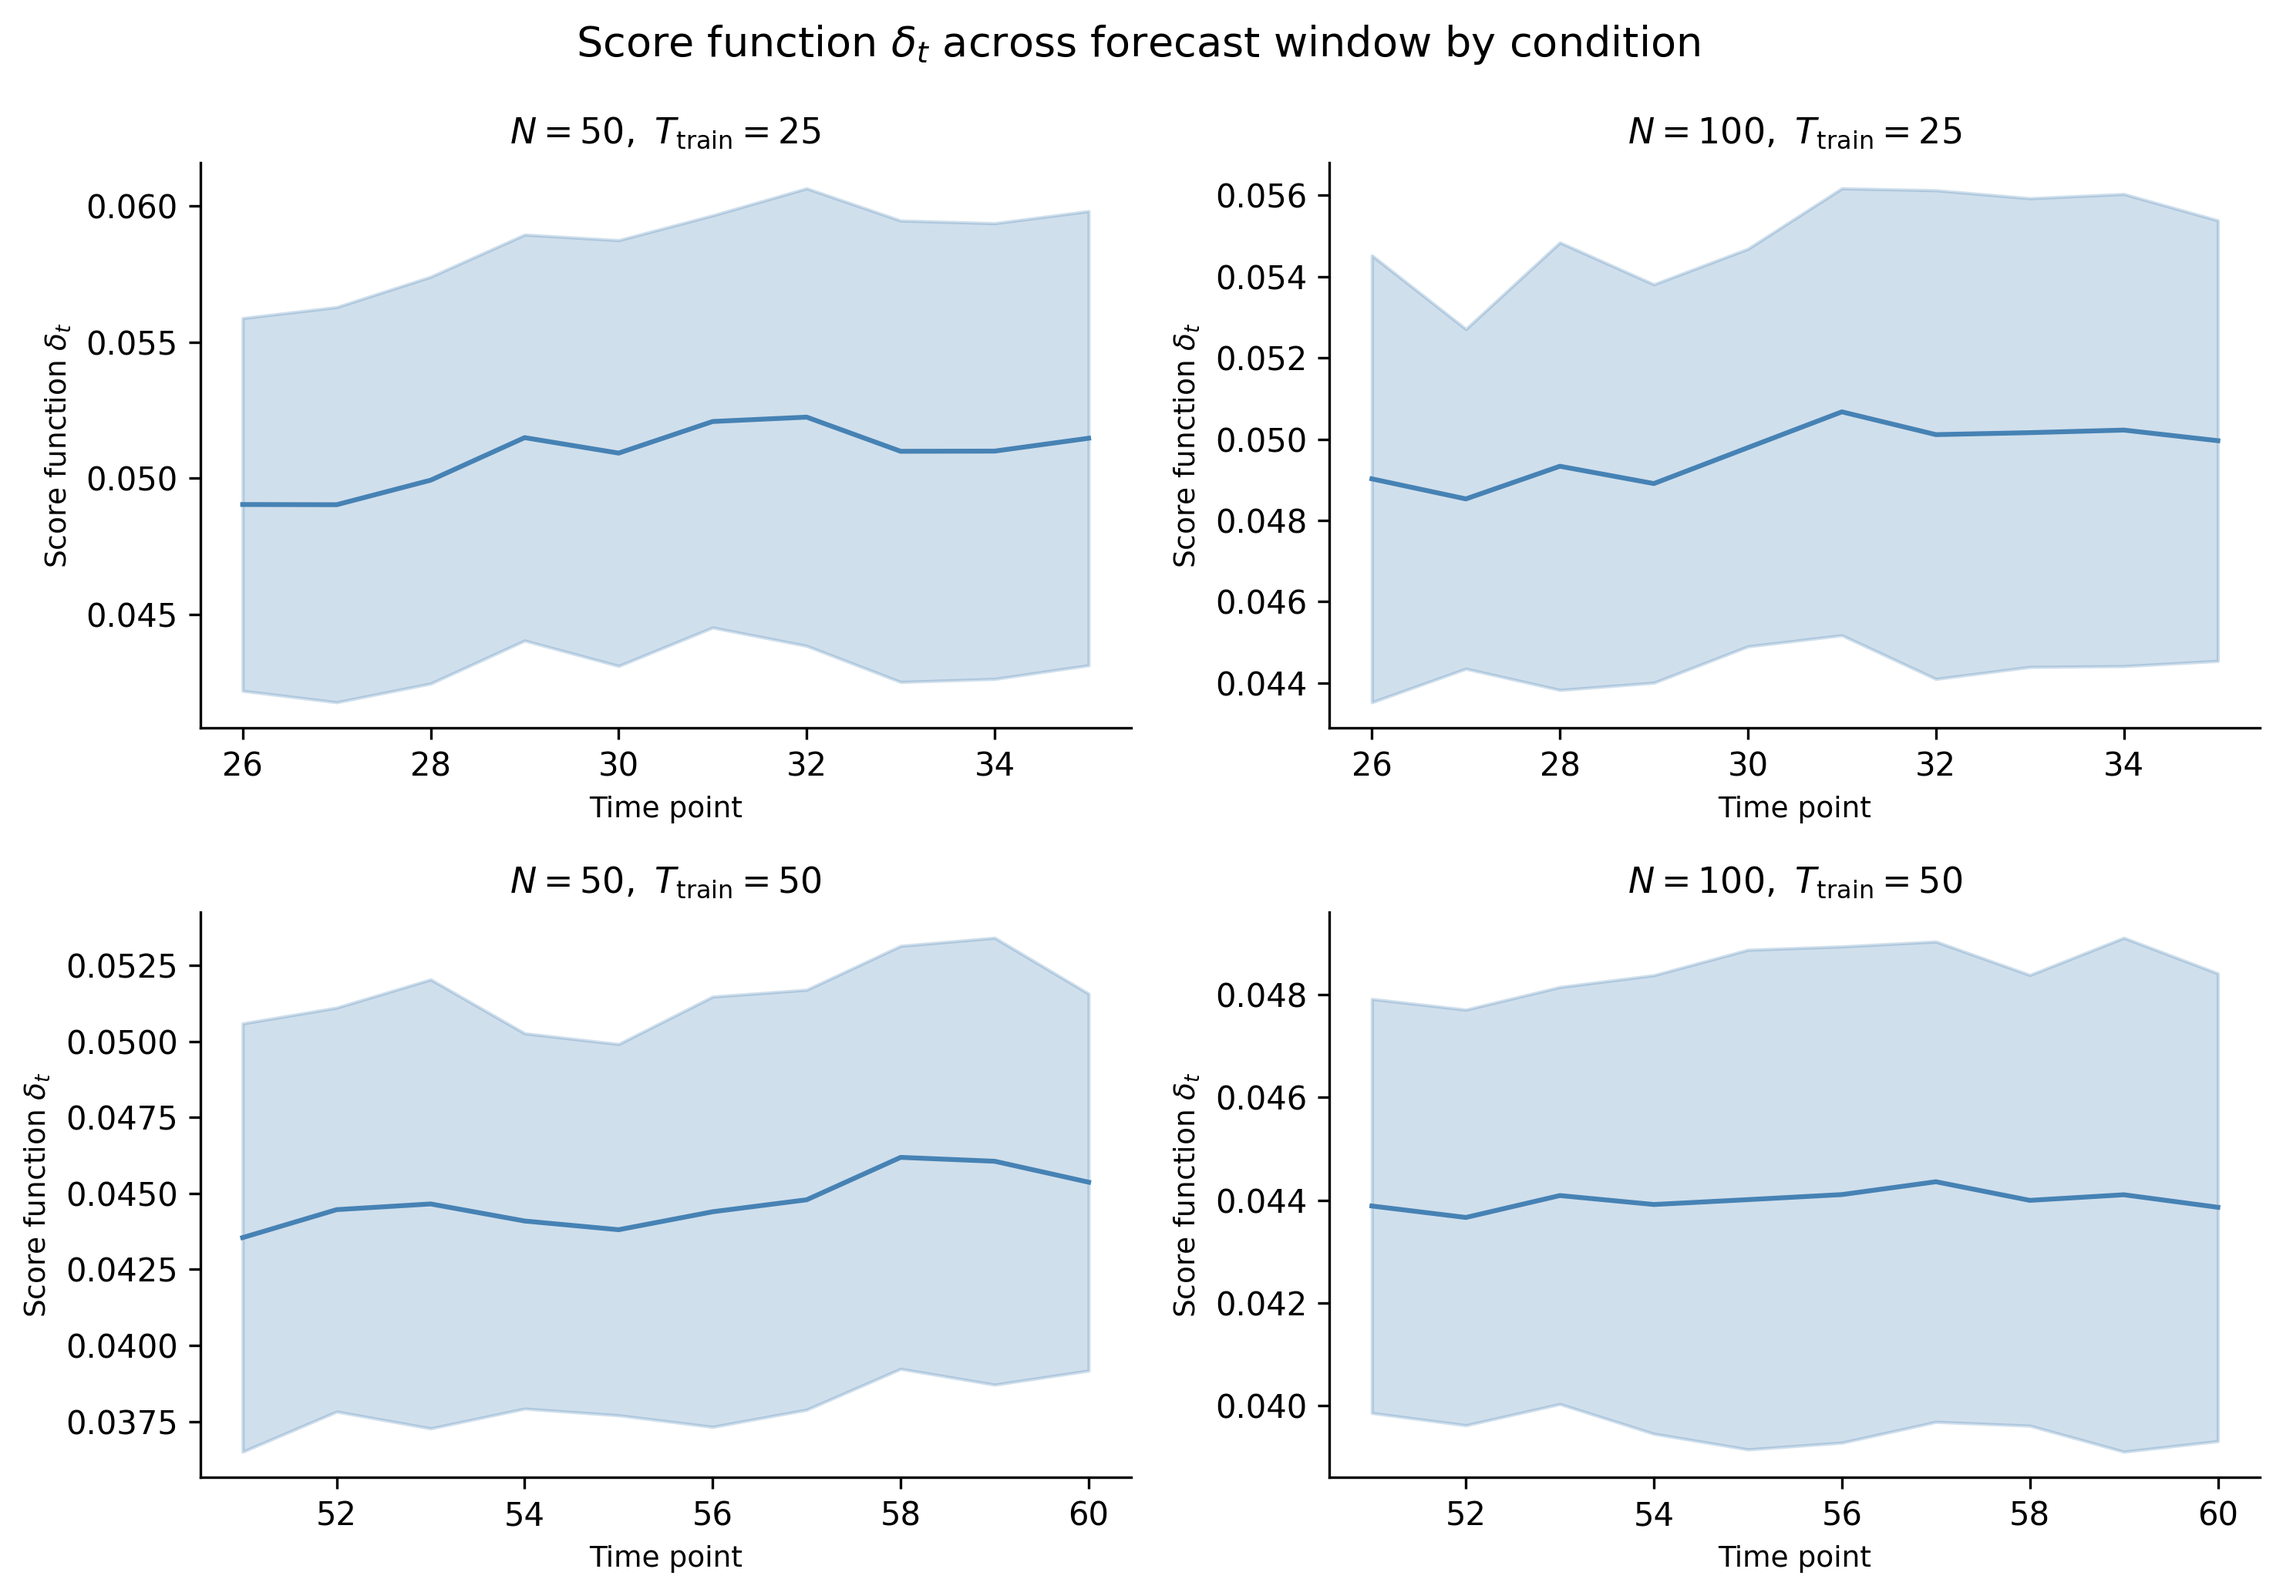
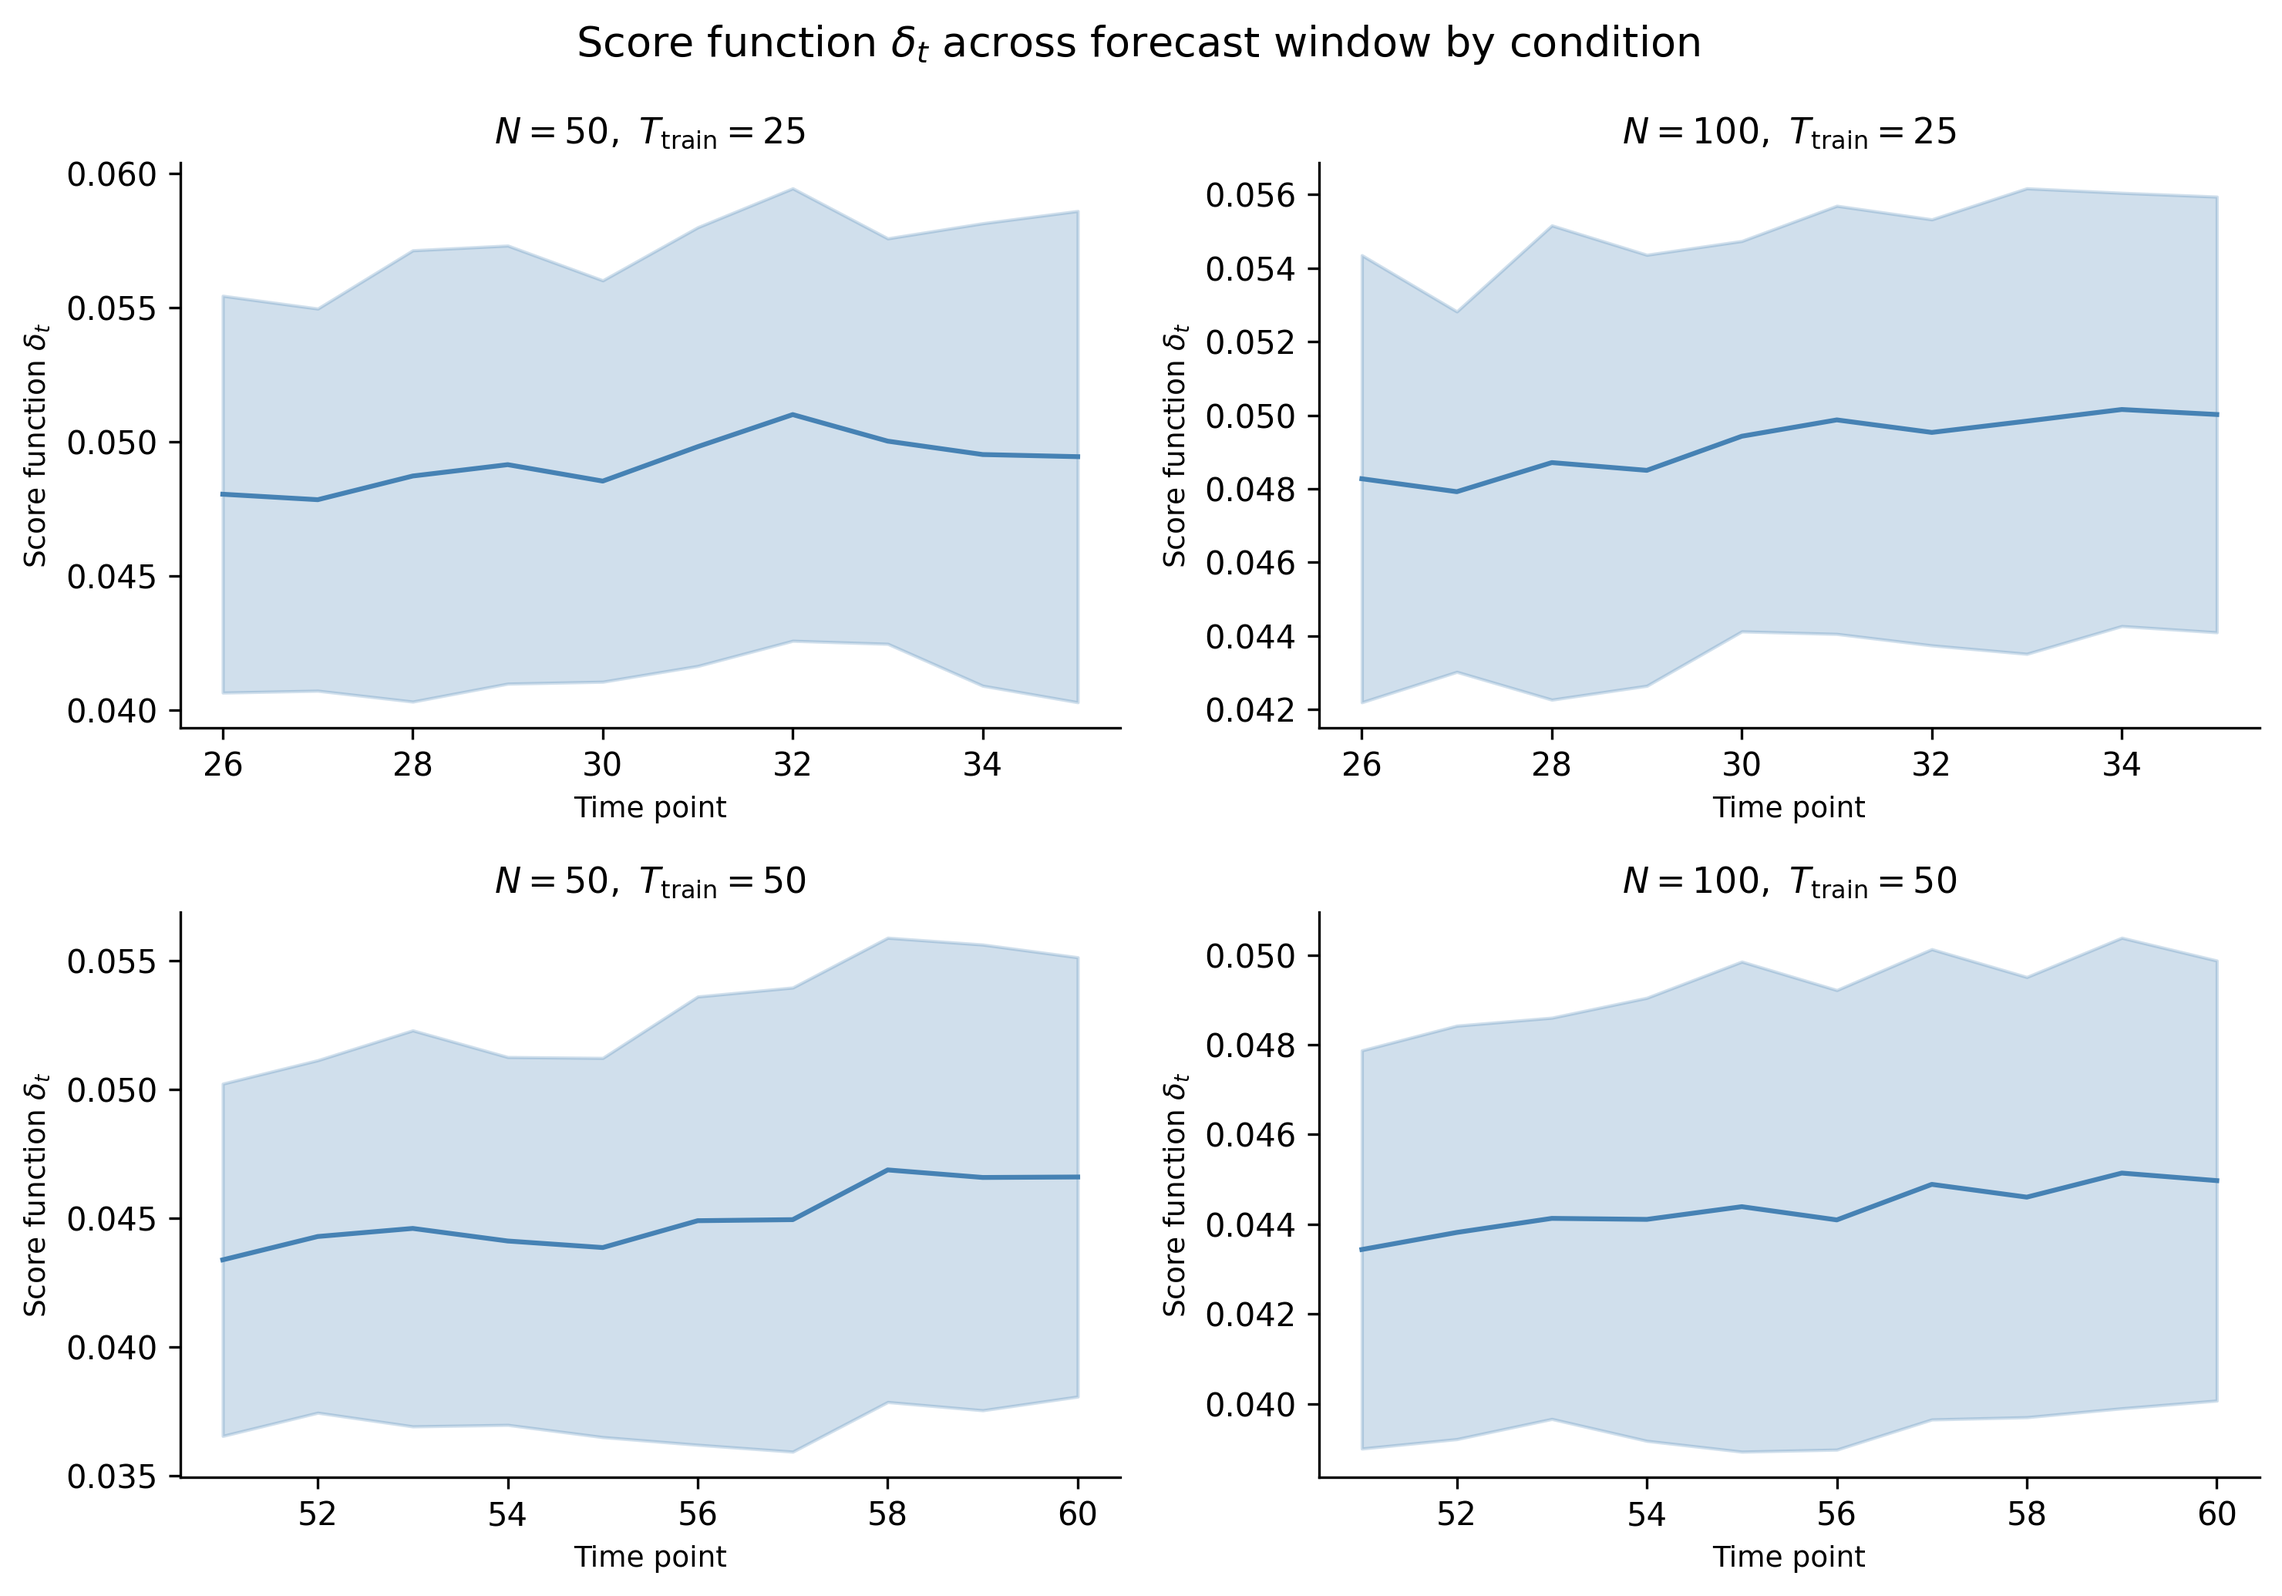
Add Power column to sim_evaluation output; regenerate param tables

diff --git a/Codes/Simulation/sim_evaluation.py b/Codes/Simulation/sim_evaluation.py
@@ -178,7 +178,9 @@ def build_param_table(summaries: dict[str, pd.DataFrame],
                       group_key: str) -> pd.DataFrame:
     """
     Build wide-format parameter recovery table for one group.
-    Columns: Parameter | Idx | True_Value | (Bias, RMSE) × 4 conditions
+    Columns: Parameter | Idx | True_Value | (Bias, RMSE, Power) × 4 conditions
+    Power = proportion of replications where 0 lies outside the 95% CI
+    (rejection rate; for true_value = 0 parameters this is the Type-I error rate).
     """
     patterns = PARAM_GROUPS[group_key]
 
@@ -231,16 +233,20 @@ def build_param_table(summaries: dict[str, pd.DataFrame],
             if df is None:
                 row[f"{label} Bias"] = "NA"
                 row[f"{label} RMSE"] = "NA"
+                row[f"{label} Power"] = "NA"
                 continue
             sub = df[df["Parameter"] == param]
             if len(sub) == 0:
                 row[f"{label} Bias"] = "NA"
                 row[f"{label} RMSE"] = "NA"
+                row[f"{label} Power"] = "NA"
             else:
                 bias = sub["Bias"].values[0]
                 rmse = sub["RMSE"].values[0]
                 row[f"{label} Bias"] = round(float(bias), 4) if not pd.isna(bias) else "NA"
                 row[f"{label} RMSE"] = round(float(rmse), 4) if not pd.isna(rmse) else "NA"
+                power = sub["Power"].values[0] if "Power" in sub.columns else np.nan
+                row[f"{label} Power"] = round(float(power), 4) if not pd.isna(power) else "NA"
         rows.append(row)
 
     return pd.DataFrame(rows)
